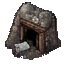
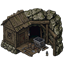
updated mine image

diff --git a/public/index.html b/public/index.html
@@ -34,7 +34,7 @@
   <div id="toast"></div>
 
   <script>
-    var version = "0.8.68";
+    var version = "0.8.69";
     if ('serviceWorker' in navigator) navigator.serviceWorker.register('sw.js').catch(() => {});
 
     // Laddningsstapel. set(0-1, text), paint() ger webbläsaren tid att rita, done() döljer rutan.
